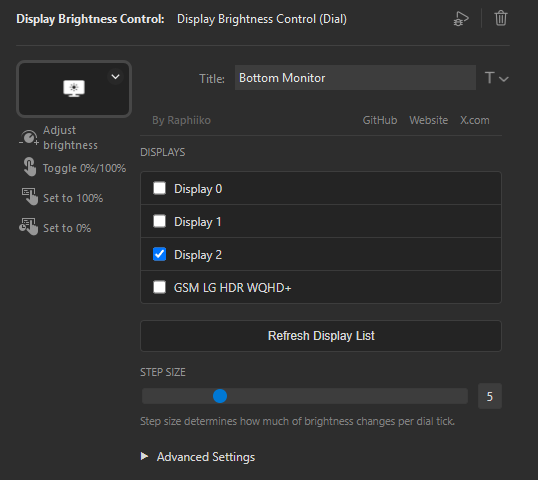
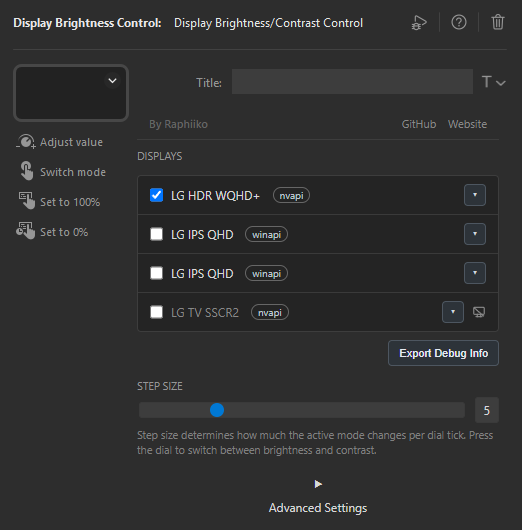
Update readme

diff --git a/README.md b/README.md
@@ -27,7 +27,7 @@ Control the brightness and contrast of your displays directly from your Stream D
 
 ## Actions
 
-### Display Brightness Control (Dial)
+### Display Brightness/Contrast Control (Dial)
 
 For devices like the Stream Deck+ with built-in dials. Rotate to adjust the active mode, then press the dial to switch between brightness and contrast.
 
@@ -70,14 +70,36 @@ Works with any Stream Deck model. Choose from multiple modes to control your bri
 
 Control individual displays or all monitors at once.
 
+</td>
+<td width="50%">
+
+![Button Settings](docs/button_brightness_settings.png)
+
+</td>
+</tr>
+</table>
+
 ### Display Contrast Control (Button)
 
 Works exactly like the brightness button action, but applies the selected mode to monitor contrast instead.
 
+<table>
+<tr>
+<td width="50%">
+
+**Available Modes:**
+
+- **Cycle Through Values**: Press to cycle through preset contrast levels (e.g., 0%, 25%, 50%, 75%, 100%)
+- **Set to Value**: Set contrast to a specific percentage when pressed
+- **Toggle**: Toggle between two configurable contrast values
+- **Increase/Decrease**: Increment or decrement contrast by a fixed step
+
+Control individual displays or all monitors at once.
+
 </td>
 <td width="50%">
 
-![Button Settings](docs/button_settings.png)
+![Contrast Button Settings](docs/button_contrast_settings.png)
 
 </td>
 </tr>
